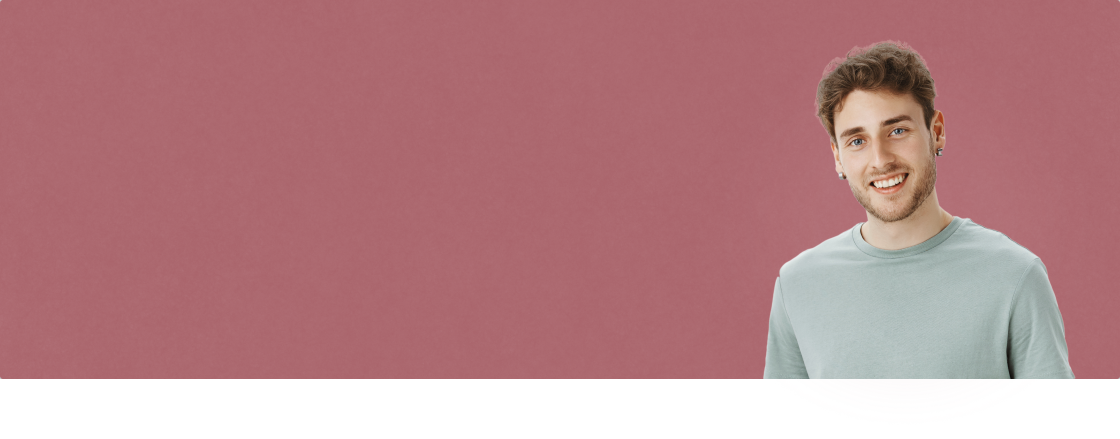
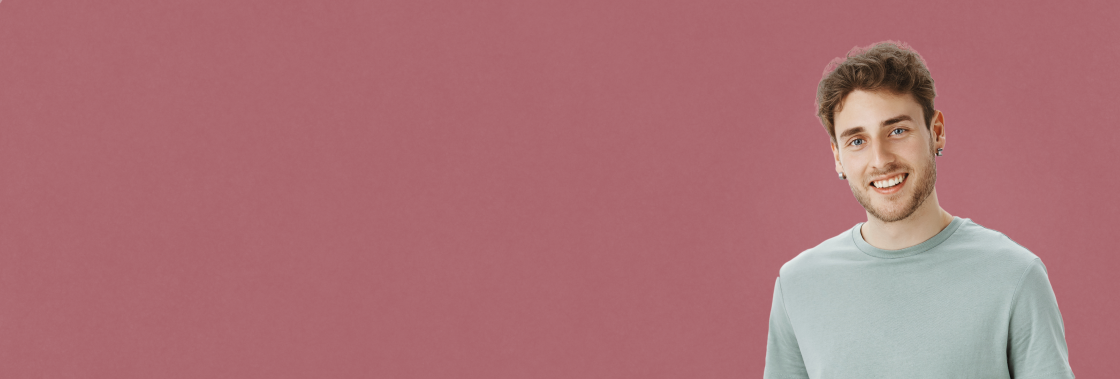
responsive join us section

Changed region(s): [[0.0, 0.0871, 1.0, 1.0]]

diff --git a/frontend/main_app/src/Pages/Home/Components/JoinUs.module.scss b/frontend/main_app/src/Pages/Home/Components/JoinUs.module.scss
@@ -1,20 +1,21 @@
 @import "../../../colors.scss";
-// 95 120
 
 .join_us_section {
   padding: 0 1.375rem 10.25rem;
 }
+
 .widget {
   position: relative;
 
   display: flex;
   flex-direction: column;
+  flex-wrap: wrap;
 
   width: 100%;
   max-width: 70rem;
 
   margin: 0 auto;
-  padding: 6em 7.5em;
+  padding: 6em 3em;
 
   color: $main_bright;
   background-color: #a9636a;
@@ -23,14 +24,20 @@
   background-image: url("../../../assets/HomePage/join_us_photo.png");
   background-size: cover;
   background-repeat: no-repeat;
+  background-position: center;
 }
 
 .h2 {
-  width: 70%;
+  width: 100%;
   max-width: 700px;
-  margin-bottom: 4rem;
+
+  margin-bottom: 2.5em;
+
   font-size: 1.75rem;
+
   font-weight: 600;
+
+  z-index: 1;
 }
 
 .button {
@@ -44,10 +51,53 @@
   border-radius: 0.375rem;
   cursor: pointer;
 
+  z-index: 1;
+
   &:hover {
     filter: brightness(110%);
   }
 }
 
-@media (max-width: 1010px) {
+@media (max-width: 912px) {
+  .widget {
+    background-image: none;
+
+    &::before {
+      content: "";
+      position: absolute;
+      top: 0;
+      right: 0;
+      bottom: 0;
+      left: 0;
+      background-image: url("../../../assets/HomePage/bg_texture_join_us.png");
+      mix-blend-mode: screen;
+      opacity: 0.27;
+    }
+  }
+}
+
+@media (max-width: 750px) {
+  .widget {
+    padding: 3em;
+  }
+
+  .h2 {
+    margin-bottom: 2em;
+  }
+}
+
+@media (max-width: 430px) {
+  .widget {
+    padding: 2em;
+  }
+
+  .h2 {
+    font-size: 1.625rem;
+  }
+
+  .button {
+    width: 35vw;
+    min-width: 9.125rem;
+    font-size: 0.875rem;
+  }
 }

diff --git a/frontend/main_app/src/Pages/Home/Components/Services.module.scss b/frontend/main_app/src/Pages/Home/Components/Services.module.scss
@@ -87,6 +87,12 @@
 }
 
 // Media queries
+@media (max-width: 863px) {
+  .mock_service {
+    display: none;
+  }
+}
+
 @media (max-width: 620px) {
   .services_section {
     padding: 0 1.375rem 6rem;
@@ -94,10 +100,6 @@
 
   .h2 {
     font-size: 1.625rem;
-  }
-
-  .mock_service {
-    display: none;
   }
 }
 
